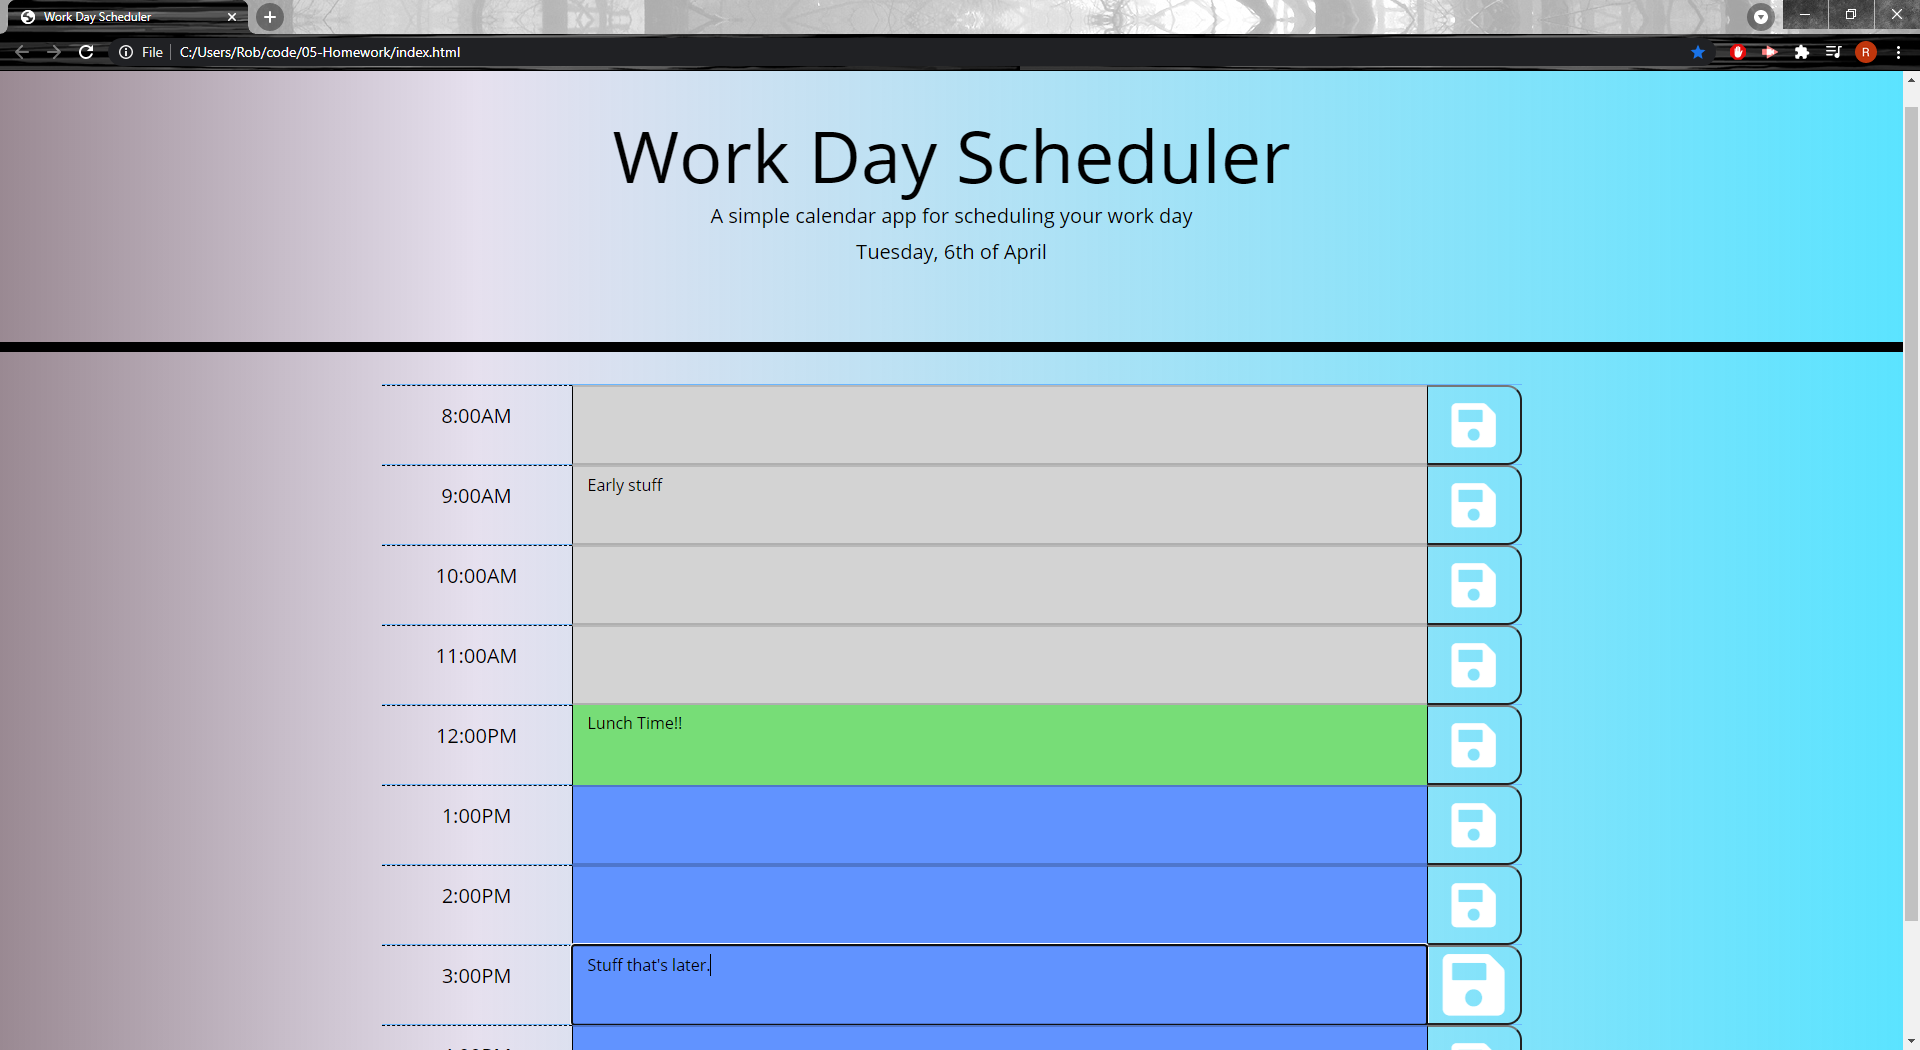
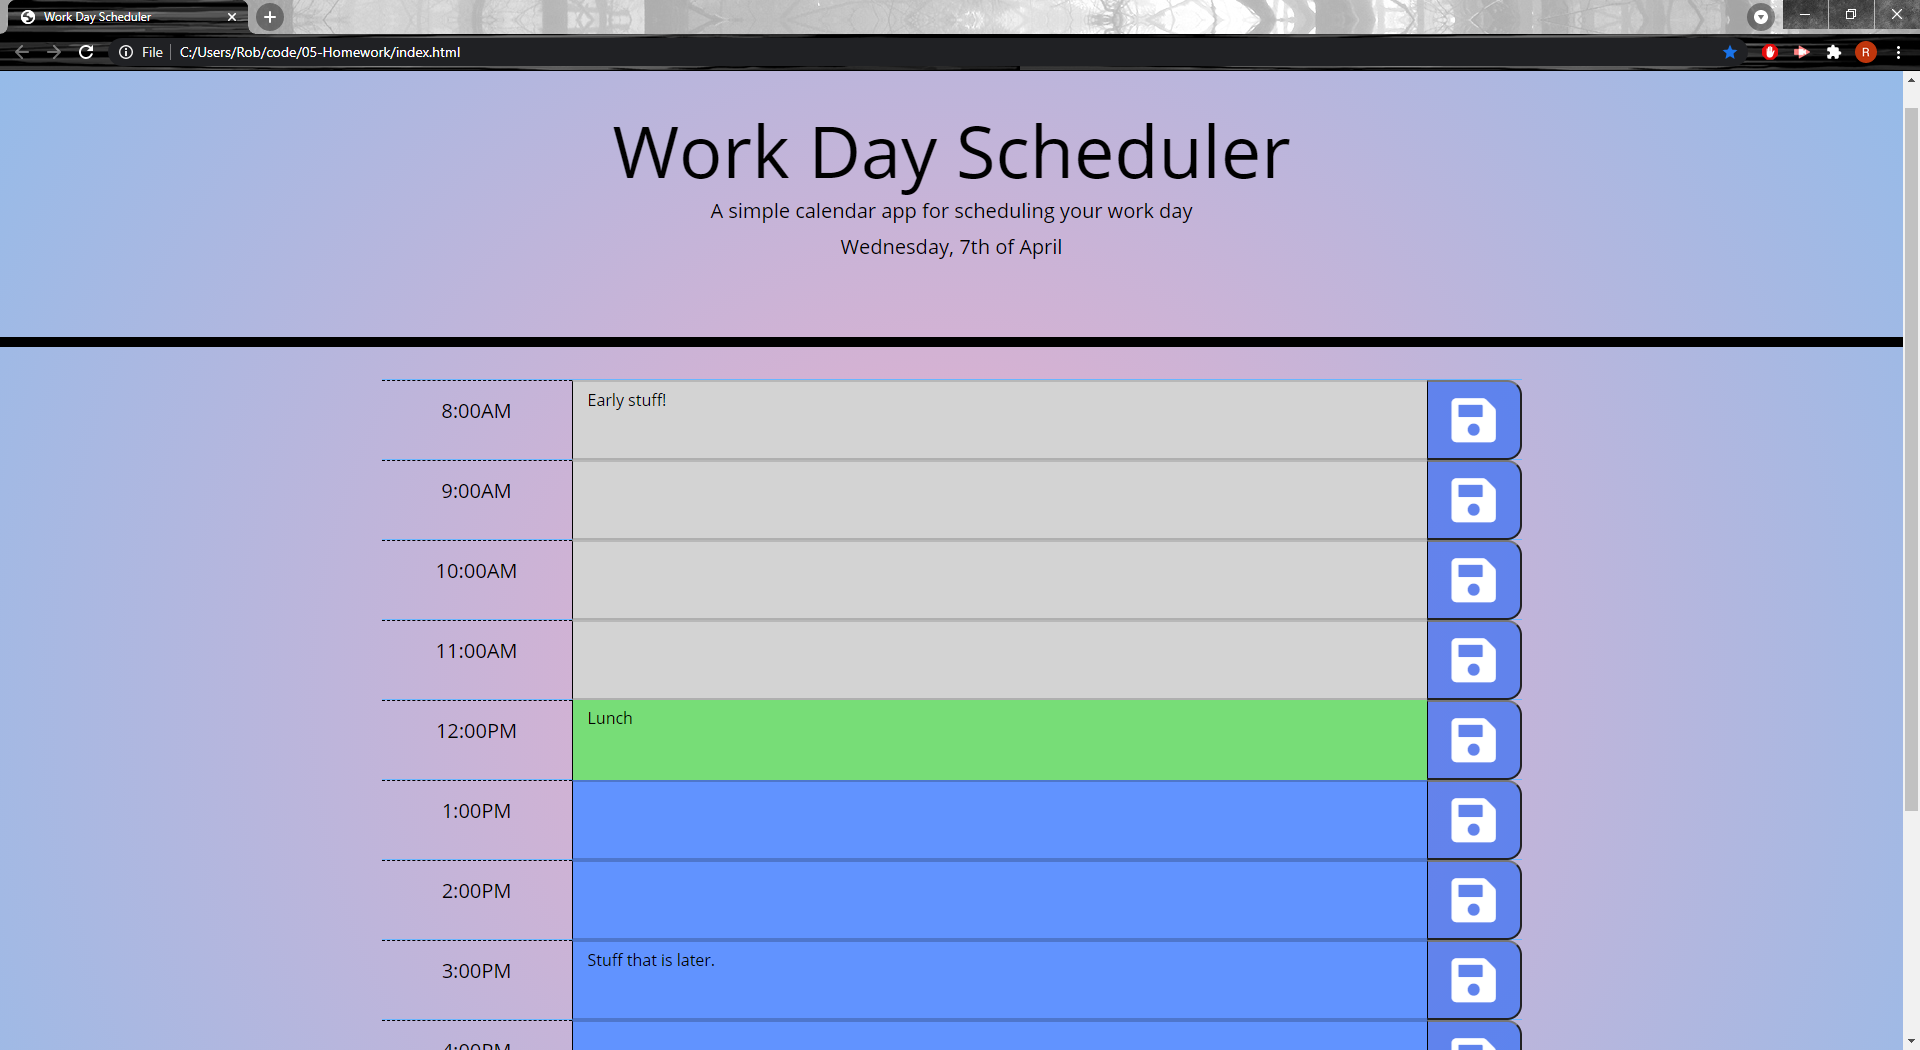
local storage working and everything completely fixedgit add .! :)

diff --git a/Assets/style.css b/Assets/style.css
@@ -2,8 +2,8 @@ body {
   font-family: 'Open Sans', sans-serif;
   font-size: 16px;
   line-height: 1;
-  background: rgb(36,0,20);
-  background: linear-gradient(90deg, rgba(36,0,20,0.46262254901960786) 0%, rgba(54,9,121,0.12648809523809523) 25%, rgba(0,212,255,0.6446953781512605) 100%);
+  background: rgb(238,174,202);
+  background: radial-gradient(circle, rgba(238,174,202,1) 0%, rgba(148,187,233,1) 100%);
 }
 
 textarea{
@@ -68,8 +68,8 @@ textarea{
   border-left: 1px solid black;
   border-top-right-radius: 15px;
   border-bottom-right-radius: 15px;
-  background: none;
   color: white;
+  background-color: rgb(0, 81, 255, .5);
   font-size: 50px;
 }
 
@@ -78,3 +78,14 @@ textarea{
   transition: all .3s ease-in-out;
 }
 
+footer {
+  margin-top: 80px;
+  height: 100px;
+  text-align: center;
+  padding-top: 70px;
+  background-color: rgb(0, 172, 252, .1);
+  margin-left: 350px;
+  margin-right: 350px;
+  border-top-right-radius: 50px;
+  border-top-left-radius: 50px;
+}

diff --git a/Assets/script.js b/Assets/script.js
@@ -30,6 +30,7 @@ $(document).ready(function(){
     var userInput = $('<textarea>');
     userInput.addClass('col-9');
     row.append(userInput);
+    //MAKING THE SAVED CONTENT APPEAR AFTER REFRESH//
     userInput.val(localStorage.getItem(hour24));
 
     //FOR THE CHANGING COLOURS//
@@ -52,8 +53,6 @@ $(document).ready(function(){
     icon.addClass('save Btn fas fa-save')
     button.append(icon)
 
-    //MAKING THE SAVED CONTENT APPEAR AFTER REFRESH//
-    
     //MAKING THE BUTTON SAVE THE USERS CONTENT TO LOCAL STORAGE//
     button.on("click", function(event){
       event.preventDefault();
@@ -62,7 +61,6 @@ $(document).ready(function(){
       var textarea = row.children[1];
       var userText = textarea.value;
       localStorage.setItem(hour24, userText)
-      console.log(event)
     })
   } 
 });

diff --git a/index.html b/index.html
@@ -37,6 +37,10 @@
 
   </div>
 
+  <footer>
+    Made by Rob!
+  </footer>
+
   <script src="https://cdnjs.cloudflare.com/ajax/libs/jquery/3.2.1/jquery.min.js"></script>
   <script src="https://cdnjs.cloudflare.com/ajax/libs/moment.js/2.24.0/moment.min.js"></script>
   <script src="./Assets/script.js"></script>

diff --git a/README.md b/README.md
@@ -4,7 +4,11 @@
 
 This project was very hard for me to get started, I had to do a few itterations to make it work properly. At first I had designed the whole rows of content in HTML. I had got most of the functions working, as in the the changing of 'past' 'present' and 'future and had got the local storage saving the content.
 
-After my initial solution, I decided to create all the elements in Javascript. This took a while to get used to but became easy as I could comment out the HTML and copy it into javascript and append/add class where necessary. 
+After my initial solution, I decided to create all the elements in Javascript. This took a while to get used to but became easy as I could comment out the HTML and copy it into javascript and append/add class where necessary. These elements were created in a for loop that iterated over the amount of hours set (8-17). I then used these hours set in the for loop and compared them with the currentTime to then add the class 'past', 'present' or 'future' to the userInput area. Each element, the row, hours, textarea and button were created a set amount of times, and now I worked on having the local storage work. The local storage part of the assignment was by far the hardest to solve. 
+
+Because I had set up the elements in javascript, it was hard to locate individual rows as they were all being treated as a duplicate of the first row. After much time and research, I figured out how to locate the individual save button to properly save each row and have them display after refresh. To do this I got the click event.currentTarget, then went up to the .closest parent which is the .row. Then I got the particular text area through children [1], then got the textarea.value and stored it in the local storage at the current hour. 
+
+This assignment taught me a lot about jQuery as well as moment.js, both of which I had not used before. It has been good to expand my knowledge into how different libraries work and forcing myself to use mostly jQuery was tough at first but became quite quick and easy to navigate. 
 
 Here is a link to my working application: https://robert-rousset.github.io/Daily-Planner/.
 
